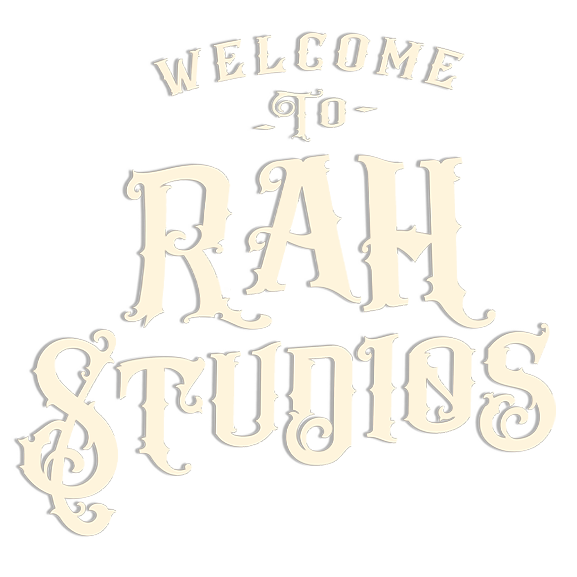
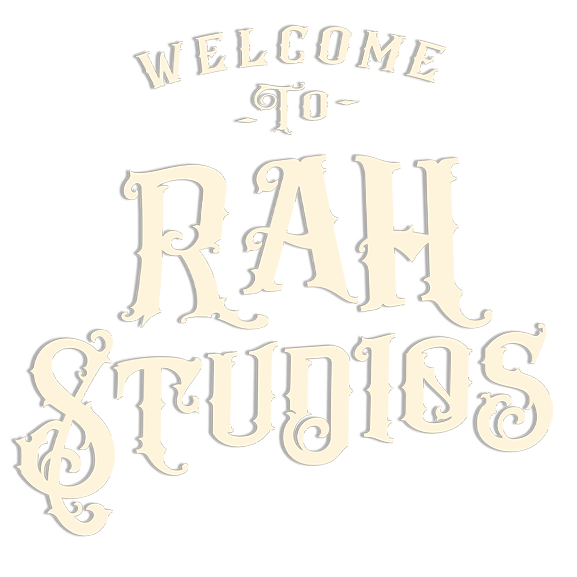
Add files via upload

diff --git a/pins.html b/pins.html
@@ -1,0 +1,146 @@
+<!DOCTYPE html>
+<html lang="en">
+
+<head>
+    <meta charset="utf-8">
+    <meta http-equiv="Permissions-Policy" content="interest-cohort=()">
+    <meta name="viewport" content="width=device-width, initial-scale=1.0, user-scalable=no">
+    <link href="xs.css" rel="stylesheet" type="text/css" />
+    
+</head>
+    
+<body>
+    
+    <div id="topper" class="card">
+        
+        <div id="" class="card">
+            <div id="" class="hwcard right">
+                <img src="img/RAH-Logo-Wings.png"/>
+            </div>
+            <div id="bm" class="hwcard left hover" onclick="navigate();">
+                <img src="img/bm.png"/>
+            </div>
+        </div>
+        
+        <div id="sbg" class="bg"><img src="img/rah-bg1.JPG"/></div>
+        
+    </div>
+    <div  class="card">
+    <ul id="navbar2">
+        <!--<li><a href="index.html" >Home</a></li>-->
+        <li><a href="about.html" >About</a></li>
+        <li><a href="products.html" >Products</a></li>
+        <li><a href="events.html" >Events</a></li>
+        <!--<li><a href="#" >Contact</a></li>-->
+    </ul>
+    </div>
+    
+    <div id="products"  class="lc">
+        
+        <div class="list">
+            <div class="listitem">
+                <a href="product-pin-DieStruck.html"><img src="img/product/hat.png"/></a>
+                <span>Die Struck</span>
+                <p>When considering custom designed lapel pins, you can’t go wrong with the timeless elegance of a die struck lapel pin. These simple, all-metal lapel pins provide a clean, understated, and elegant looking high-quality accessory to be worn by men and women as a mark of distinction and pride.</p>
+            </div>
+            <div class="listitem">
+                <a href="product-pin-SoftEnamel.html"><img src="img/product/hat.png"/></a>
+                <span>Soft Enamel</span>
+                <p>Oftentimes you want a fun pin that doesn’t need to make a grandiose statement. For these kinds of projects, we offer more inexpensive, economy enamel lapel pins.</p>
+            </div>
+            <div class="listitem">
+                <a href="product-pin-Cloisonne.html"><img src="img/product/hat.png"/></a>
+                <span>Cloisonne</span>
+                <p>Our hard enamel lapel pins, also known as Cloisonné pins or epola pins, are some of our highest quality and most popular pins. Made with modernized techniques based on ancient Chinese artistry, hard enamel lapel pins have an impressive appearance and a durable construction. These long lasting lapel pins are perfect for wearing over and over again and are sure to catch the eye of everyone who sees them.</p>
+            </div>
+            
+        </div>
+        
+        <div class="list">
+            <div class="listitem">
+                <a href="product-pin-PreciousMetal.html"><img src="img/product/hat.png"/></a>
+                <span>Precious Metal</span>
+                <p>For projects with a higher budget or for a truly special occasion or event that require an elegant, fine jewelry quality lapel pin, choose from one of our precious metal options. We have options available in sterling silver, 10 karat gold filled, 10 karat solid gold or 14 karat solid gold.</p>
+            </div>
+            <div class="listitem">
+                <a href="product-pin-Printed.html"><img src="img/product/hat.png"/></a>
+                <span>Printed</span>
+                <p>For custom designs that have a lot of details, such as recreating a painting or photograph, we recommend ordering printed lapel pins. Printed pins allow for a full color pin without the need for raised metal areas to separate different colors and areas.</p>
+            </div>
+            <div class="listitem">
+                <a href="product-pin-Cast.html"><img src="img/product/hat.png"/></a>
+                <span>Cast</span>
+                <p>The ancient art of casting metal from a mold gets a modern twist with our custom cast process.</p>
+            </div>
+            
+        </div>
+        
+        <div class="list">
+            <div class="listitem">
+                <a href="product-pin-MadeintheUSA.html"><img src="img/product/hat.png"/></a>
+                <span>Made in the USA</span>
+                <p>We offers a wide range of Made in the USA custom lapel pins to suit any lead time or budget.</p>
+            </div>
+            <div class="listitem">
+                <a href="product-pin-OffsetPrint.html"><img src="img/product/hat.png"/></a>
+                <span>Offset Print</span>
+                <p>Offset Printed lapel pins enable your design to be printed on the lapel pin surface with one or more color gradients, or fades. This process also insures an exact replica of the design or artwork you present to us for production.
+
+                The Offset Printed process is perfect for designs that use actual photographs as a backdrop. Unlike the other lapel pin manufacturing processes we offer, Offset Printed pins do not require metal separating each color. This means your design potential is endless and complicated corporate logos are easily reproduced.</p>
+            </div>
+            <div class="listitem">
+                <a href="product-pin-PVC.html"><img src="img/product/hat.png"/></a>
+                <span>PVC</span>
+                <p>For a fun, three-dimensional rendition of your logo or design, you may want to consider custom designed PVC lapel pins. PVC lapel pins are made with a versatile process that can create flat, 2D, 3D or even a full relief of your chosen design or logo. In addition to standard PMS colors, we offer PVC pins that are transparent, neon, sparkling, and even glow in the dark!</p>
+            </div>
+            
+        </div>
+               
+    </div>
+    
+    
+    
+    <!--
+    <div  class="card">
+        
+        
+        <img id="action" src="img/about-action.jpg"/>
+        
+    </div>
+    -->
+    
+    <div id="foot" class="card">
+        
+        
+        <img src="img/foot-logo.JPG"/>
+        
+    </div>
+    <div id="info" class="card">
+    <div class="fcard">
+        
+            <h1>Reach Out</h1>
+            <a href="#">RAH Studios, Orlando FL</a>
+            <a href="#">P: +1 407.765.4388</a>
+            <a href="#">E: Heroes@RAHStudios.com</a>
+        
+    </div>
+    <div class="fcard">
+        <h1>magickom</h1>
+        <a href="#">The World is full of magical things patiently waitfing for your senses to grow stronger</a>
+    </div>
+    <div class="fcard">
+        <h1>Follow us on Social</h1>
+        <p>Loctis utsend herdsecht murer moleitic vundergund black magic interceptual nanomatter vitao</p>
+        <ul class="fl">
+            <li><a href="#">FB</a></li>
+            <li><a href="#">IG</a></li>
+            <li><a href="#">XO</a></li>
+            <li><a href="#">YT</a></li>
+        </ul>
+    </div>
+    </div>
+     
+    <script  src="mw.js"></script>
+</body>
+    
+</html>

diff --git a/mw.js b/mw.js
@@ -9,7 +9,7 @@ const viewHEIGHT = Math.floor(innerHeight);
 //var bod = document.body;
 //bod.style.height = viewHEIGHT;
 //bod.style.width = viewWIDTH;
-
+if(viewWIDTH < 500){
 var top = document.getElementById("tc");
     if(top)
 top.style.height = viewHEIGHT+"px";    
@@ -19,15 +19,32 @@ logo.style.height = viewHEIGHT*0.25+"px";
     
 var welcome = document.getElementById("welcome");
     if(welcome){
-welcome.style.height = viewHEIGHT+"px";
+welcome.style.height = viewHEIGHT*0.5+"px";
 var concern = document.getElementById("concern");
+    if(concern)
 concern.style.height = viewHEIGHT+"px";
 var offer = document.getElementById("offer");
+    if(offer)
 offer.style.height = viewHEIGHT+"px";
 var action = document.getElementById("action");
+    if(action)
 action.style.height = viewHEIGHT+"px";
     }
-
+}
+else{
+    var top = document.getElementById("tc");
+    if(top)
+        top.style.height = viewHEIGHT+"px"; 
+    var logo = document.getElementById("logo");
+    if(logo)
+       { logo.style.height = viewHEIGHT*0.5+"px";
+        logo.style.width = viewWIDTH*0.75+"px";
+       logo.style.left = viewWIDTH*0.12+"px";
+       }
+    var welcome = document.getElementById("welcome");
+    if(welcome)
+       welcome.style.height = viewHEIGHT*0.5+"px";
+}
 
 var foot = document.getElementById("foot");
 foot.style.height = viewHEIGHT*0.5+"px";

diff --git a/index.html b/index.html
@@ -16,7 +16,7 @@
             <div id="logo" class="hwcard left hover" onclick="navigate();">
                 <img src="img/RAH-Logo-Wings.png"/>
             </div>
-            <div class="center2 hw left bottom"><img src="img/Welcome-to-RAH-Studios.png"/></div>
+            <div id="welcome" class="center2 hw left bottom"><img src="img/Welcome-to-RAH-Studios.png"/></div>
         </div>
         
         
@@ -152,8 +152,9 @@
         
         </div>
      -->   
+        <script  src="anim.js"></script>
     <script  src="mw.js"></script>
-    <script  src="anim.js"></script>
+    
 </body>
     
 </html>

diff --git a/xs.css b/xs.css
@@ -6,7 +6,7 @@
     display:block;
     position:absolute;
     top: 20%;
-    width:25%;
+    width:27%;
     list-style-type: none;
     margin: 0;
     padding: 0;
@@ -38,11 +38,13 @@
 
 
 @media only screen and (min-width: 500px){
+    
+    
     #navbar{
     display:block;
     position:fixed;
     top: 50%;
-    width:15%;
+    width:25%;
     list-style-type: none;
     margin: 0;
     padding: 0;
@@ -359,11 +361,13 @@ button{
     position:absolute;
     height:100%;
     width:100%;
+    display:flex;
 }
 #logo img {
     position:relative;
     height:100%;
     width:100%;
+    
 }
 .card {
     

diff --git a/products.html b/products.html
@@ -51,7 +51,7 @@
             </div>
         
             <div class="listitem">
-                <a href=".html"><img src="img/product/lapel_pins.png"/></a>
+                <a href="pins.html"><img src="img/product/lapel_pins.png"/></a>
                 <span>Pins</span>
                 <p>Our hard enamel lapel pins, also known as Cloisonné pins</p>
             </div>
